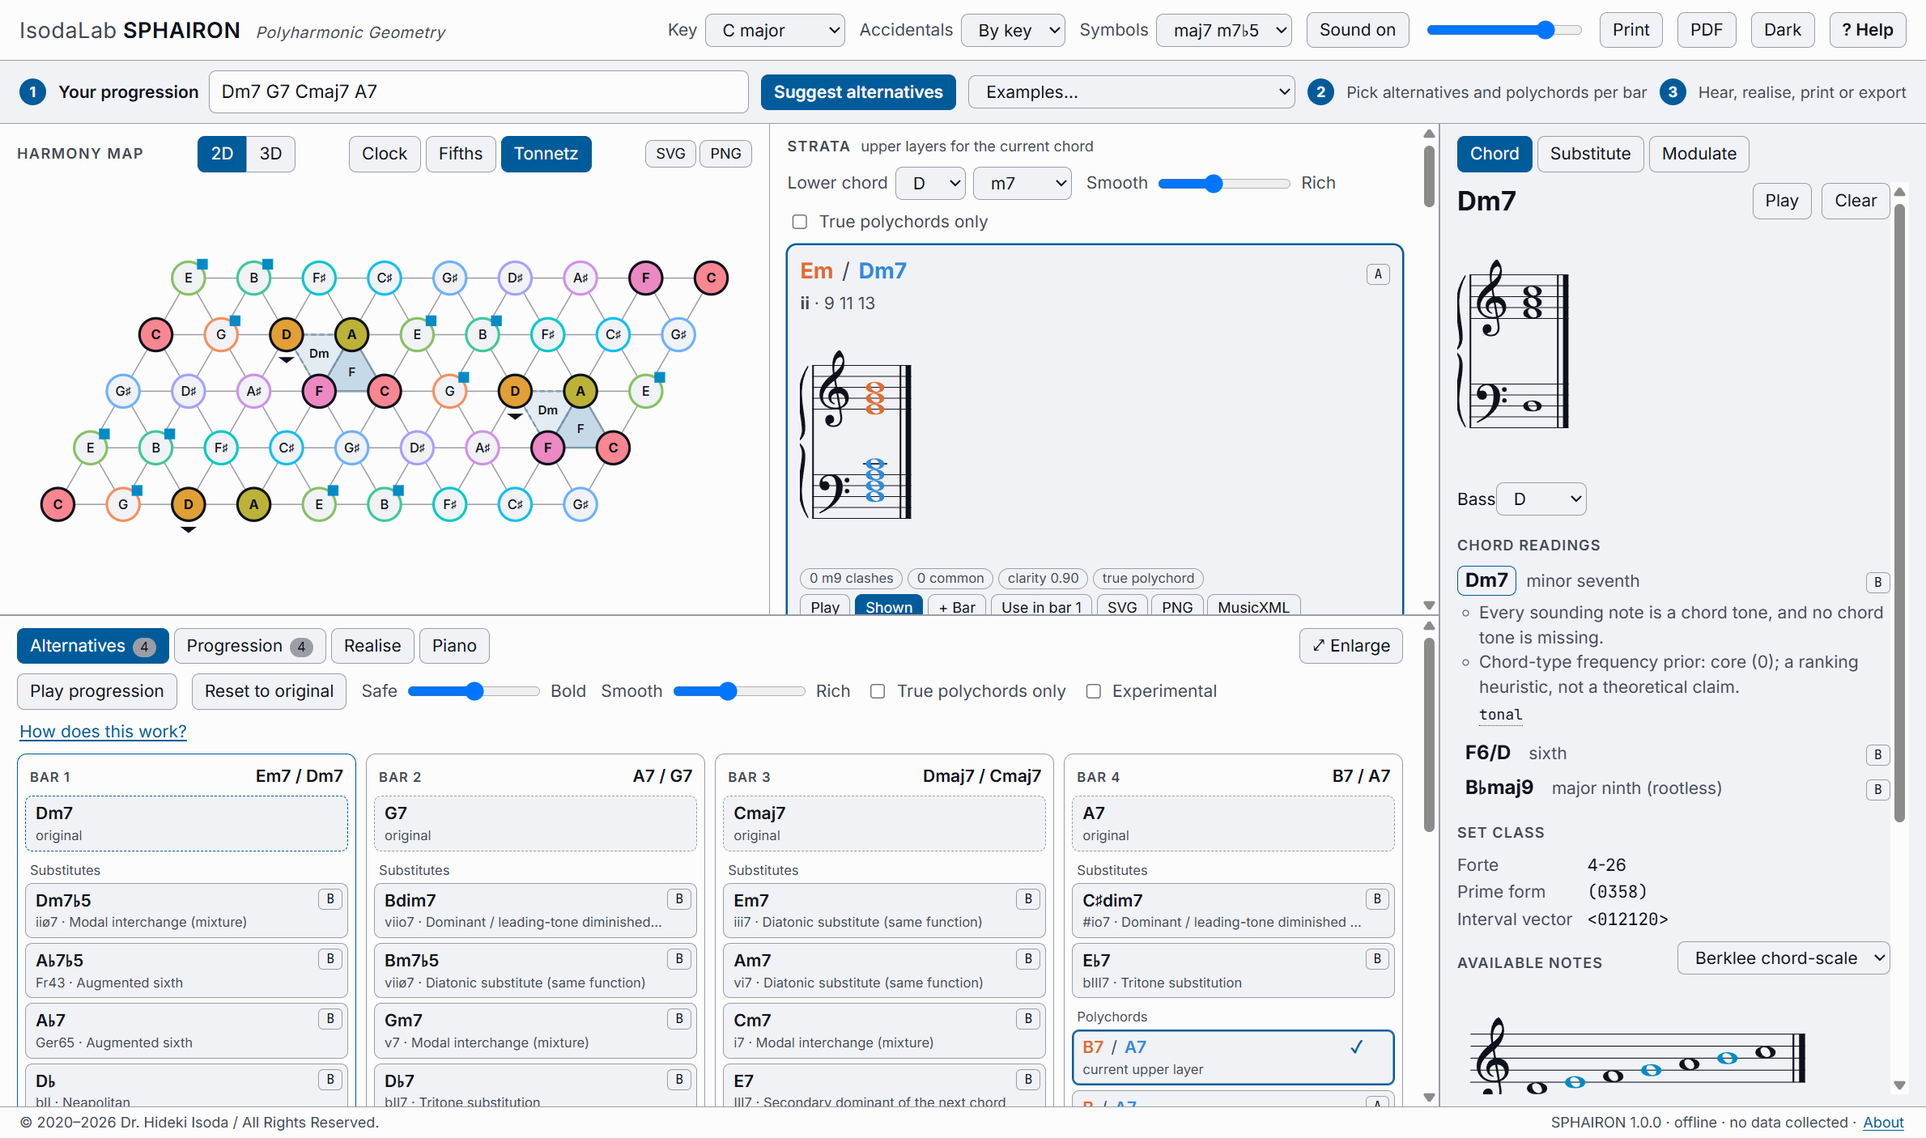
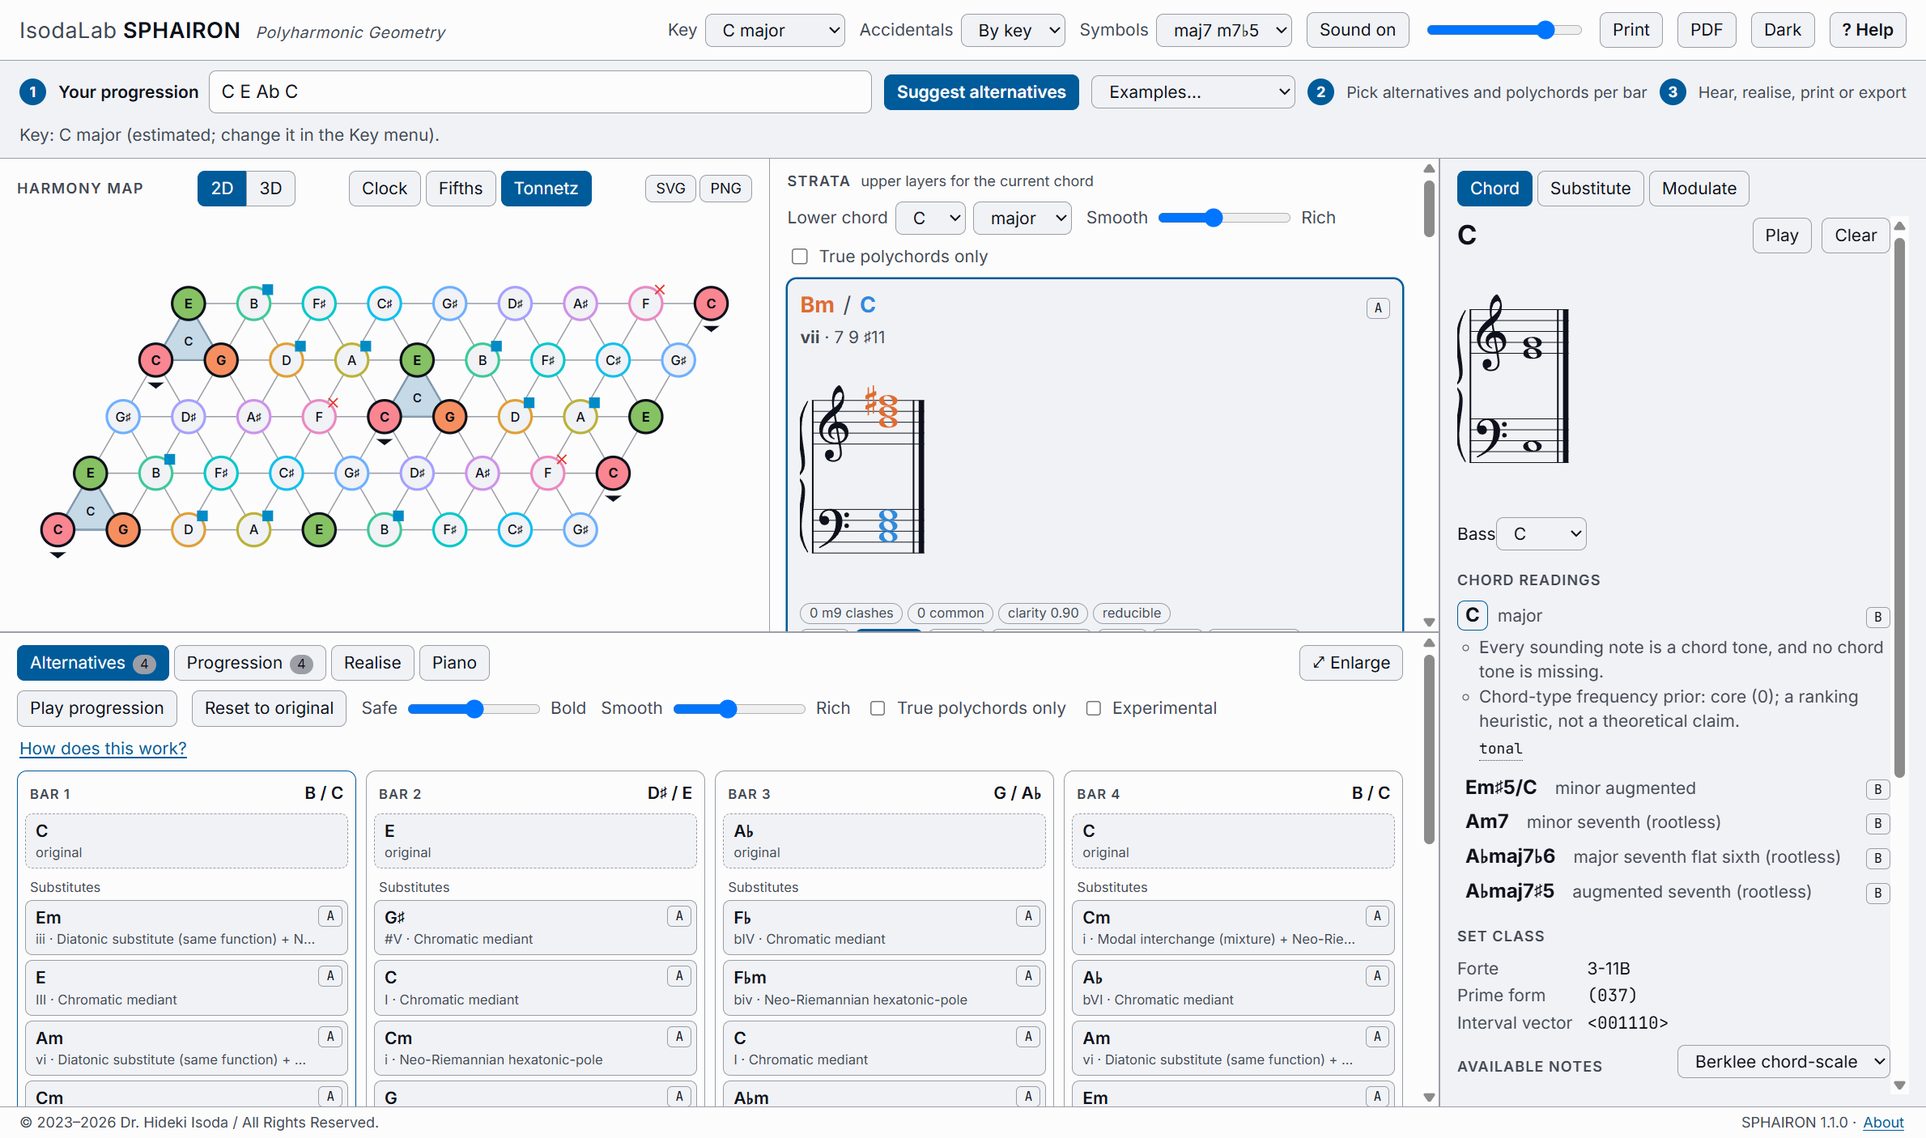
SPHAIRON 1.1.0: README, tutorials and screenshots, changelog, licence year

diff --git a/README.md b/README.md
@@ -9,7 +9,7 @@ IsodaLab<br>
 Free advanced music production software, created for the global creative community.</i></p>
 
 <p align="center">
-  <a href="https://github.com/isodalab/sphairon/releases/tag/v1.0.0"><b>Download 1.0.0</b></a> ·
+  <a href="https://github.com/isodalab/sphairon/releases/tag/v1.1.0"><b>Download 1.1.0</b></a> ·
   <a href="#install-on-windows">Install on Windows</a> ·
   <a href="#install-on-macos">Install on macOS</a> ·
   <a href="#install-on-linux">Install on Linux</a> ·
@@ -18,10 +18,10 @@ Free advanced music production software, created for the global creative communi
 </p>
 
 <p align="center">
-  <img src="docs/images/sphairon-hero.png" alt="SPHAIRON: the progression Dm7 G7 Cmaj7 A7 with a polychord chosen for three bars; the torus Tonnetz shows the two layers of Em / Dm7 in blue and orange, Strata lists upper layers, and the Alternatives grid offers substitutes and polychords for every bar">
+  <img src="docs/images/sphairon-hero.png" alt="SPHAIRON with the progression C, E, A♭, C (major-third mediants). Polychords are chosen for three bars (B minor over C, D♯ minor over E); the torus Tonnetz shows the two layers of B minor over C in orange and blue, Strata lists upper layers on grand staves, and the Alternatives grid offers substitutes (chromatic mediants, hexatonic poles) and polychords for every bar.">
 </p>
 
-**SPHAIRON is free, standalone software for composers, arrangers and students who want to explore harmony beyond the usual chords, and above all polyharmony: two chords sounding together in separate registers.** Type a chord progression and SPHAIRON suggests, for every bar, substitute chords and polychords, each with its reasons, its sources and a measure of how smooth or rich it sounds. Hear the result part-written for voices, for orchestra, for piano with a moving bass, or under a counterpoint melody. See every chord in 3D and 2D harmonic geometry. Print it, or export it as PDF, SVG, PNG, MIDI or MusicXML for your notation program.
+**SPHAIRON is free, standalone software for composers, arrangers, theorists and students who want to explore harmony beyond the usual chords: the chromatic and geometric harmony of contemporary composition, jazz harmony, and above all polyharmony, two chords sounding together in separate registers.** Type a chord progression and SPHAIRON suggests, for every bar, substitute chords and polychords, each with its reasons, its sources and a measure of how smooth or rich it sounds. Hear the result part-written for voices, for orchestra, for piano with a moving bass, or under a counterpoint melody. See every chord in 3D and 2D harmonic geometry. Print it, or export it as PDF, SVG, PNG, MIDI or MusicXML for your notation program.
 
 It runs on **Windows**, **macOS** (Apple silicon) and **Linux**, with the same features on all three, and works completely offline.
 
@@ -29,19 +29,20 @@ It runs on **Windows**, **macOS** (Apple silicon) and **Linux**, with the same f
 
 | Platform | Package | Requirements |
 |---|---|---|
-| **Windows** | [IsodaLab-SPHAIRON-1.0.0-Windows.zip](https://github.com/isodalab/sphairon/releases/download/v1.0.0/IsodaLab-SPHAIRON-1.0.0-Windows.zip) | 64-bit Windows 10 or 11 |
-| **macOS** | [IsodaLab-SPHAIRON-1.0.0-macOS-AppleSilicon.dmg](https://github.com/isodalab/sphairon/releases/download/v1.0.0/IsodaLab-SPHAIRON-1.0.0-macOS-AppleSilicon.dmg) | Mac with Apple silicon (M1 or later), macOS 12 or later |
-| **Linux** | [IsodaLab-SPHAIRON-1.0.0-Linux-x86_64.zip](https://github.com/isodalab/sphairon/releases/download/v1.0.0/IsodaLab-SPHAIRON-1.0.0-Linux-x86_64.zip) | 64-bit Linux (x86_64) with a desktop: Ubuntu 22.04+, Debian 12, Fedora 39+ or similar |
+| **Windows** | [IsodaLab-SPHAIRON-1.1.0-Windows.zip](https://github.com/isodalab/sphairon/releases/download/v1.1.0/IsodaLab-SPHAIRON-1.1.0-Windows.zip) | 64-bit Windows 10 or 11 |
+| **macOS** | [IsodaLab-SPHAIRON-1.1.0-macOS-AppleSilicon.dmg](https://github.com/isodalab/sphairon/releases/download/v1.1.0/IsodaLab-SPHAIRON-1.1.0-macOS-AppleSilicon.dmg) | Mac with Apple silicon (M1 or later), macOS 12 or later |
+| **Linux** | [IsodaLab-SPHAIRON-1.1.0-Linux-x86_64.zip](https://github.com/isodalab/sphairon/releases/download/v1.1.0/IsodaLab-SPHAIRON-1.1.0-Linux-x86_64.zip) | 64-bit Linux (x86_64) with a desktop: Ubuntu 22.04+, Debian 12, Fedora 39+ or similar |
 
-Every package contains the app, the **SPHAIRON Quick Start** guide (PDF) and the license. [SHA256SUMS.txt](https://github.com/isodalab/sphairon/releases/download/v1.0.0/SHA256SUMS.txt) lists the checksums. SPHAIRON is a standalone app: there is no installer, no account and no license key, and nothing else to install. The full guide is inside the app: click **? Help** or press **F1**.
+Every package contains the app, the **SPHAIRON Quick Start** guide (PDF) and the license. [SHA256SUMS.txt](https://github.com/isodalab/sphairon/releases/download/v1.1.0/SHA256SUMS.txt) lists the checksums. SPHAIRON is a standalone app: there is no installer, no account and no license key, and nothing else to install. The full guide is inside the app: click **? Help** or press **F1**.
 
 ## What it does
 
-- **Alternatives for every chord.** Type a progression (`Dm7 G7 Cmaj7 A7`, slash chords such as `C/E` included) and get, for each bar, substitute chords read in context (diatonic substitutes, tritone substitution, modal interchange, chromatic mediants, augmented sixths, neo-Riemannian moves and more) and polychords. Click one to use it and hear it in context; every suggestion says why, with its sources.
+- **Alternatives for every chord.** Type a progression (`C E Ab C`, `Dm7 G7 Cmaj7 A7`, slash chords such as `C/E` included) and get, for each bar, substitute chords read in context (neo-Riemannian moves, chromatic mediants and hexatonic poles, modal interchange, augmented sixths, tritone substitution, diatonic substitutes and more) and polychords. Click one to use it and hear it in context; every suggestion says why, with its sources.
+- **41 examples to start from.** Contemporary techniques first (hexatonic and octatonic cycles, hexatonic poles, chromatic mediants, dominants a minor third apart, planing, pedals, Lydian colour), then jazz (ii–V–I, tritone and backdoor substitution, rhythm changes, Coltrane changes, modal), classical and Romantic, and pop. SPHAIRON suggests the key from the chords; you can change it at any time.
 - **Polyharmony design (Strata).** For any chord, upper layers ranked from smooth to rich: upper-structure triads, true polychords, quartal layers. Each shows its tensions, half-step clashes, common tones and a clarity measure, on the staff and in 3D. Add an upper layer to a bar, replace it or remove it.
 - **Whole-progression strategies.** Give a progression an upper layer in one move: planing, pedal, bitonal, tritone, mode-bound or neo-Riemannian (and an experimental phasing strategy).
 - **Automatic part writing.** The progression arranged for four voices, plus three for an upper layer, under the common-practice rules of voice leading: no parallel fifths or octaves, no crossing, close spacing, tendency tones resolved, correct doubling. The result is checked again and the check is shown. Alternative arrangements (melody from the 3rd, 5th or root; close or open position; a smoother bass with inversions) are one click away.
-- **Hear it in music.** Orchestration built on the arrangement (every instrument plays one voice, inside its practical range), playable piano figures, moving bass lines (root–fifth, walking, passing, pedal and more) and a counterpoint melody with alternative lines.
+- **Hear it in music.** Orchestration built on the arrangement (every instrument plays one voice, inside its practical range), playable piano figures, moving bass lines (passing, pedal, arpeggio, walking and more, each in the bass register of its instrument) and a counterpoint melody with alternative lines.
 - **Analysis.** Chord readings, set class (Forte name, prime form, interval vector), available notes and avoid notes (Berklee and Messiaen lenses), Roman numerals, and modulation routes to any key with both readings.
 - **Harmonic geometry.** A 3D torus Tonnetz and a spiral of fifths that show both layers of a polychord; a 2D pitch-class clock, circle of fifths and Tonnetz for building chords by clicking.
 - **Print and export.** An A4 sheet (print or PDF) with notation and analysis; SVG and high-resolution PNG notation; MIDI with General MIDI instruments; MusicXML for Dorico, Finale, MuseScore and Sibelius. Exported scores are black and white.
@@ -74,7 +75,7 @@ SPHAIRON is free and isn't code-signed with a paid certificate, so Windows treat
 
 ## Install on macOS
 
-1. **Download** `IsodaLab-SPHAIRON-1.0.0-macOS-AppleSilicon.dmg` and double-click it.
+1. **Download** `IsodaLab-SPHAIRON-1.1.0-macOS-AppleSilicon.dmg` and double-click it.
 2. **Drag `SPHAIRON.app` to your Applications folder.** The Quick Start guide and the license are in the same window.
 3. **Open it.** The first time, macOS shows an alert saying *"SPHAIRON" Not Opened*. That's expected: SPHAIRON is free and isn't notarized with a paid Apple Developer ID. Click **Done**, not *Move to Trash*.
 4. **Open System Settings → Privacy & Security** and scroll down to **Security**. Next to *"SPHAIRON" was blocked to protect your Mac*, click **Open Anyway**. Enter your password (or use Touch ID) and confirm with **Open Anyway**. macOS remembers this: from now on SPHAIRON opens normally.
@@ -97,7 +98,7 @@ Then open SPHAIRON again.
 1. **Extract** the download with your file manager, or in a terminal:
 
    ```bash
-   unzip IsodaLab-SPHAIRON-1.0.0-Linux-x86_64.zip -d SPHAIRON
+   unzip IsodaLab-SPHAIRON-1.1.0-Linux-x86_64.zip -d SPHAIRON
    ```
 
 2. **Run it**, or add it to your applications menu:
@@ -139,10 +140,10 @@ Shortcuts are written for Windows and Linux; on a Mac, use **Cmd** where they sa
 
 ### Tutorial 1: Reharmonize a progression
 
-1. Type `Dm7 G7 Cmaj7 A7` in **Your progression** and press **Suggest alternatives** (or Enter). You can also pick a progression from **Examples…**.
+1. Type `C E Ab C` (major-third mediants) in **Your progression** and press **Suggest alternatives** (or Enter). You can also pick one of 41 progressions from **Examples…**: contemporary, jazz, classical and pop. SPHAIRON suggests the key from the chords (shown below the box); change it in the **Key** menu if you hear it otherwise.
 2. The **Alternatives** tab shows one column per bar: the chord as you entered it, then **Substitutes**, then **Polychords**. Each option shows its Roman numeral, the rule or structure behind it, and its tier: **A** scholarly, **B** pedagogy, **C** experimental (off unless *Experimental* is ticked).
 
-   <p align="center"><img src="docs/images/tutorial-2-alternatives.png" alt="Alternatives for Dm7 G7 Cmaj7 A7: one column per bar with substitutes and polychords"></p>
+   <p align="center"><img src="docs/images/tutorial-2-alternatives.png" alt="Alternatives for C E A♭ C: one column per bar with substitutes and polychords"></p>
 
 3. **Click an option** to use it. You hear it at once, the column header shows the new chord, and the panel below explains *why* it works, with its sources and the notation of the bars around it. **Play in context** plays it with its neighbours.
 4. Move **Safe ↔ Bold** to prefer familiar or adventurous substitutes, and **Smooth ↔ Rich** to prefer polychords with few or more half-step clashes. **True polychords only** hides upper layers that merely form one bigger chord with the lower layer.
@@ -154,7 +155,7 @@ Shortcuts are written for Windows and Linux; on a Mac, use **Cmd** where they sa
 2. **Strata** lists upper layers for that chord, ranked by the Smooth–Rich slider. Each card shows the polychord on a grand staff (upper layer orange, lower layer blue), its structure (for example *UST II* over a dominant seventh), its tensions, clashes, common tones and clarity, and whether it is a *true polychord*.
 3. Press **Show** to see both layers in 3D. In the **Spiral** view, notes a fifth apart are neighbours, and each layer appears as a coloured shape with its centre.
 
-   <p align="center"><img src="docs/images/tutorial-3-spiral.png" alt="The spiral of fifths showing Dm7 (blue) and Em (orange) as two layers, with Strata and the Alternatives grid"></p>
+   <p align="center"><img src="docs/images/tutorial-3-spiral.png" alt="The spiral of fifths showing C (blue) and B minor (orange) as two layers, with Strata and the Alternatives grid"></p>
 
 4. **+ Bar** adds the polychord as a new bar; **Use in bar N** sets or replaces the upper layer of the selected bar. **Why** shows the reasons and the notes available over both layers.
 
@@ -168,7 +169,7 @@ Shortcuts are written for Windows and Linux; on a Mac, use **Cmd** where they sa
    - *Phasing* (experimental): an upper loop of a different length.
 3. The curves show **tension** (red) and **clarity** (dashed) bar by bar. The notation is part-written (**Voicing: Voice-led**); choose *Close position* to stack each chord from its root instead.
 
-   <p align="center"><img src="docs/images/tutorial-8-progression.png" alt="The Progression tab after planing: Em7 / Dm7, A7 / G7, Dmaj7 / Cmaj7, B7 / A7, voice-led on a grand staff, with tension and clarity curves"></p>
+   <p align="center"><img src="docs/images/tutorial-8-progression.png" alt="The Progression tab after planing a major seventh above: B / C, D♯ / E, G / A♭, B / C, voice-led on a grand staff, with Roman numerals I, III, ♭VI, I, with tension and clarity curves"></p>
 
 ### Tutorial 4: Hear it as music (Realise)
 
@@ -180,7 +181,7 @@ Open **Realise** and press **⤢ Enlarge** for room. Every view starts from the 
 
 - **Orchestration.** Choose a **Scoring**: *Winds over strings* and *Strings over brass* give each layer its own instrument family; the quartets blend everything into one choir. Each instrument plays one voice of the arrangement in its practical range. The score is in C (sounding pitch).
 - **Arpeggio.** A playable piano part: each hand stays within an octave, low basses are open octaves, the left hand stays below the right. Choose the right-hand figure (rising, falling, rise-and-fall, Alberti, repeated chord), the left hand, and eighths or sixteenths.
-- **Bass line** (Arpeggio and Orchestration): keep the voice-led bass, or choose a moving bass: *Root–fifth*, *Arpeggio*, *Passing (stepwise)*, *Walking (jazz)*, *Octaves (pop)* or *Tonic pedal*.
+- **Bass line** (Arpeggio and Orchestration): keep the voice-led bass, or choose a moving bass: *Root–fifth*, *Arpeggio*, *Passing (stepwise)*, *Walking (jazz)*, *Octaves (driving eighths)* or *Tonic pedal*. In the orchestra the moving bass goes to the lowest instrument, in the register of a bass voice (the double bass an octave lower, written an octave above its sound as usual).
 
   <p align="center"><img src="docs/images/tutorial-6-piano-walking-bass.png" alt="Realise, Arpeggio with a walking bass: right-hand rise-and-fall figures over a walking left hand"></p>
 
@@ -194,7 +195,7 @@ Press **Play** to hear any view; **MIDI** and **MusicXML** export it.
 
 - **Substitute** (right): chords that can replace the current chord, ranked by voice leading, function and the Safe–Bold setting, each with notation and reasons.
 
-  <p align="center"><img src="docs/images/tutorial-9-substitute.png" width="900" alt="The Substitute tab for Dm7"></p>
+  <p align="center"><img src="docs/images/tutorial-9-substitute.png" width="900" alt="The Substitute tab for C"></p>
 
 - **Modulate**: choose a target key. Routes (pivot chord, ii–V into the new key, applied dominant, common tone, enharmonic, direct) are ranked by key distance, pivot quality and voice leading, and shown with both Roman-numeral readings, notation and playback.
 
@@ -233,7 +234,7 @@ The complete glossary, the rules behind every suggestion and the full source lis
 
 ## Sources
 
-Every suggestion names its sources. The main ones: Persichetti, *Twentieth-Century Harmony* (1961); Levine, *The Jazz Piano Book* (1989) and *The Jazz Theory Book* (1995); Aldwell, Schachter & Cadwallader, *Harmony and Voice Leading* (5th ed., 2019); Kostka, Payne & Almén, *Tonal Harmony* (8th ed., 2018); Fux, *Gradus ad Parnassum* (1725; trans. Mann, 1965); Tymoczko, *A Geometry of Music* (2011); Cohn, "Neo-Riemannian Operations…" (1997) and *Audacious Euphony* (2012); Bernardes et al., "A multi-level tonal interval space…" (2016); Krumhansl & Kessler (1982); Adler, *The Study of Orchestration* (4th ed., 2016); Messiaen, *Technique de mon langage musical* (1944); Nettles & Graf, *The Chord Scale Theory & Jazz Harmony* (1997). Every reference was checked before release; Help → Sources shows what was checked for each one. Tables such as Forte names and prime forms are generated with music21, not typed by hand.
+Every suggestion names its sources. The main ones: Hook, *Exploring Musical Spaces: A Synthesis of Mathematical Approaches* (2023); Tymoczko, *A Geometry of Music* (2011); Cohn, "Neo-Riemannian Operations…" (1997) and *Audacious Euphony* (2012); Persichetti, *Twentieth-Century Harmony* (1961); Messiaen, *Technique de mon langage musical* (1944); Forte, *The Structure of Atonal Music* (1973); Bernardes et al., "A multi-level tonal interval space…" (2016); Levine, *The Jazz Piano Book* (1989) and *The Jazz Theory Book* (1995); Nettles & Graf, *The Chord Scale Theory & Jazz Harmony* (1997); Aldwell, Schachter & Cadwallader, *Harmony and Voice Leading* (5th ed., 2019); Kostka, Payne & Almén, *Tonal Harmony* (8th ed., 2018); Fux, *Gradus ad Parnassum* (1725; trans. Mann, 1965); Krumhansl & Kessler (1982) and Krumhansl, *Cognitive Foundations of Musical Pitch* (1990); Adler, *The Study of Orchestration* (4th ed., 2016). Every reference was checked against publisher and library records; Help → Sources lists them all. Tables such as Forte names and prime forms are generated with music21, not typed by hand.
 
 ## Privacy
 
@@ -247,7 +248,7 @@ Built with Electron, React, three.js, Tone.js and tonal; music notation by [Vero
 
 ## About
 
-SPHAIRON was developed by Dr. Hideki Isoda at Texas Tech University, from research on polyharmony and harmonic geometry pursued since 2023. It is free for composers, arrangers, performers, educators, students and researchers worldwide.
+SPHAIRON is an ongoing research project of Dr. Hideki Isoda at Texas Tech University, begun in 2023 and inspired especially by Julian Hook's *Exploring Musical Spaces: A Synthesis of Mathematical Approaches* (Oxford University Press, 2023) and Dmitri Tymoczko's *A Geometry of Music* (Oxford University Press, 2011). It is free for composers, arrangers, performers, educators, students and researchers worldwide.
 
 ## Name
 

diff --git a/CHANGELOG.md b/CHANGELOG.md
@@ -2,6 +2,43 @@
 
 All notable changes to IsodaLab SPHAIRON: Polyharmonic Geometry.
 
+## 1.1.0 (2026-11-27)
+
+**Examples and key**
+
+- 41 example progressions, grouped: contemporary techniques first
+  (hexatonic and octatonic cycles, hexatonic poles, chromatic mediants,
+  dominants a minor third apart, planing, pedals, Lydian colour, sus and
+  augmented chords), then jazz, classical and Romantic, and pop.
+- The key is suggested from the typed chords (Krumhansl–Schmuckler key
+  finding with the Krumhansl–Kessler profiles); examples set their own key.
+  It can always be changed in the Key menu.
+
+**Theory and scoring**
+
+- Roman numerals tell a major seventh from a dominant seventh: IM7, IVM65
+  (Kostka & Payne), not I7.
+- The double bass is written an octave above its sound, as usual (also in
+  MusicXML, with an octave transposition), and doubles the bass voice an
+  octave lower.
+- A moving bass line stays in the register of a bass voice (E2–C4; the
+  double bass an octave lower): no more tuba or bassoon lines in the
+  extreme low register. Every example is tested in every scoring with
+  every bass line for practical ranges.
+- New sources: Julian Hook, *Exploring Musical Spaces* (2023), and
+  Krumhansl, *Cognitive Foundations of Musical Pitch* (1990).
+
+**Interface**
+
+- Tempo: type any value; the arrow keys and the mouse wheel step through
+  the traditional metronome markings (40 … 208); a menu names the tempo
+  (Largo … Prestissimo) with its range on a traditional metronome dial.
+- Help → Sources lists the references without check labels; About gives
+  the project's background (since 2023, inspired by Hook and Tymoczko).
+- Copyright © 2023–2026. The status bar no longer repeats the privacy
+  note (it stays in Help → About).
+- The octaves bass line is called “Octaves (driving eighths)”.
+
 ## 1.0.0 (2026-11-26): first release
 
 **Composing with polyharmony**
